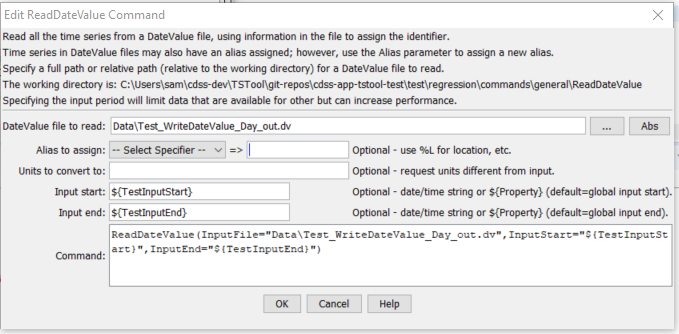
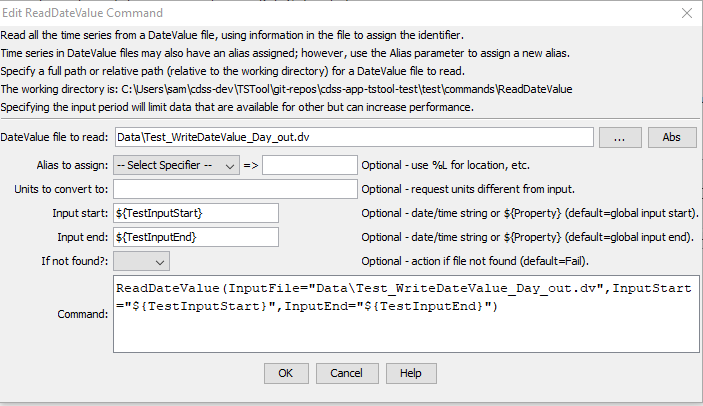
Update documentation for SWSI command enhancements, issue #99

diff --git a/mkdocs-project/docs/getting-started/getting-started.md b/mkdocs-project/docs/getting-started/getting-started.md
@@ -6,31 +6,31 @@ This chapter provides an overview of the TSTool graphical user interface (GUI).
 * [Starting TSTool](#starting-tstool)
 * [Database Selection and User Authentication](#database-selection-and-user-authentication)
 * [Main Interface](#main-interface)
-	+ [Input/Query Options and Time Series List Area](#inputquery-options-and-time-series-list-area)
-	+ [Command List and Command Error Indicators](#command-list-and-command-error-indicators)
-	+ [Time Series Results](#time-series-results)
+    + [Input/Query Options and Time Series List Area](#inputquery-options-and-time-series-list-area)
+    + [Command List and Command Error Indicators](#command-list-and-command-error-indicators)
+    + [Time Series Results](#time-series-results)
 * [File Menu - Main Input and Output Control](#file-menu-main-input-and-output-control)
-	+ [File / New - Open Command File or Databases](#filenew–open-command-file-or-databases)
-	+ [File / Open - Open Command File or Databases](#fileopen-open-command-file-or-databases)
-	+ [File / Save - Save Command File, and Time Series](#filesave–save-command-file-and-time-series)
-	+ [Print Commands](#print-commands)
-	+ [Properties for Commands Run, TSTool Session, and Input Types](#properties-for-commands-run-tstool-session-and-input-types)
-	+ [Set Working Directory](#set-working-directory)
-	+ [File / Exit](#fileexit)
+    + [File / New - Open Command File or Databases](#filenew–open-command-file-or-databases)
+    + [File / Open - Open Command File or Databases](#fileopen-open-command-file-or-databases)
+    + [File / Save - Save Command File, and Time Series](#filesave–save-command-file-and-time-series)
+    + [Print Commands](#print-commands)
+    + [Properties for Commands Run, TSTool Session, and Input Types](#properties-for-commands-run-tstool-session-and-input-types)
+    + [Set Working Directory](#set-working-directory)
+    + [File / Exit](#fileexit)
 * [Edit Menu - Editing Commands](#edit-menu-editing-commands)
-	+ [Cut/Copy/Paste/Delete](#cutcopypastedelete)
-	+ [Select All Commands/Deselect All Commands](#select-all-commandsdeselect-all-commands)
-	+ [Edit Command](#edit-command)
-	+ [Convert Selected Commands To/From Comments](#convert-selected-commands-tofrom-comments)
-	+ [Convert TSID to Read Commands](#convert-tsid-to-read-commands)
+    + [Cut/Copy/Paste/Delete](#cutcopypastedelete)
+    + [Select All Commands/Deselect All Commands](#select-all-commandsdeselect-all-commands)
+    + [Edit Command](#edit-command)
+    + [Convert Selected Commands To/From Comments](#convert-selected-commands-tofrom-comments)
+    + [Convert TSID to Read Commands](#convert-tsid-to-read-commands)
 * [View Menu –-Display Useful Information and Map Interface](#view-menu-display-useful-information-and-map-interface)
 * [Commands Menus](#commands-menus)
 * [Run Menu - Run Commands](#run-Menu-run-commands)
-	* [Process TSProduct](#process-tsproduct)
+    * [Process TSProduct](#process-tsproduct)
 * [Results Menu - Display Time Series](#results-menu-display-time-series)
 * [Tools Menu](#tools-menu)
-	+ [Options](#options)
-	+ [Diagnostics](#diagnostics)
+    + [Options](#options)
+    + [Diagnostics](#diagnostics)
 * [Help Menu](#help-menu)
 * [Creating Workflows](#creating-workflows)
 
@@ -41,18 +41,18 @@ This chapter provides an overview of the TSTool graphical user interface (GUI).
 The TSTool GUI has three main functions:
 
 1. Browse and view time series data.  In this capacity,
-a graph or summary can be created and then TSTool can be closed.
+   a graph or summary can be created and then TSTool can be closed.
 2. Automate time series processing.
-For example, format lists of time series for use with simulation models or other software.
-In this capacity, time series that are read and displayed can be incorporated into a command file,
-which can be run to generate time series files.
+   For example, format lists of time series for use with simulation models or other software.
+   In this capacity, time series that are read and displayed can be incorporated into a command file,
+   which can be run to generate time series files.
 3. Process time series products.  For example, create graphs for use on web sites or to facilitate review data or modeling results.
-In this capacity TSTool is used to generate data products in a streamlined fashion.
-The remainder of this chapter provides an overview of the graphical user interface,
-in the general order of the main features and menus on the menu bar (left to right, top to bottom).
-The features necessary to accomplish the above tasks are described at an introductory level.
-See other chapters for more detailed information.
-See also the training materials that are available for TSTool.
+   In this capacity TSTool is used to generate data products in a streamlined fashion.
+   The remainder of this chapter provides an overview of the graphical user interface,
+   in the general order of the main features and menus on the menu bar (left to right, top to bottom).
+   The features necessary to accomplish the above tasks are described at an introductory level.
+   See other chapters for more detailed information.
+   See also the training materials that are available for TSTool.
 
 ## Starting TSTool ##
 
@@ -153,56 +153,56 @@ read commands from the ***Commands*** menu (see the [Commands chapter](../comman
 To select time series, perform the following steps:
 
 1. **Select the source of the data**.  Select a ***Datastore*** or ***Input type***.
-	* A data store is a repository that generally contains multiple time series
-	(e.g., a database, web service, or file).
-	The details about the datastore are included in a simple configuration file (see datastore appendices).
-	* Input types define the storage format (e.g., database or file)
-	for time series data, and may require an input name.
-	Selecting some input types may prompt for a file,
-	which is then listed in the ***Input name*** choices immediately below ***Input type***.<br><br>
-	The datastore design is being phased in because it provides more flexibility in defining data connections.
-	In the future, all database connections will be transferred to
-	datastores and remaining input types may be referred to as “file datastores”, which will use a filename.<br><br>
-	The DateValue input type is the default.
-	More specific input types (e.g., HydroBase) may be the default if enabled.
-	See the appropriate data store or input type appendix for more information.<br><br>
-	Depending on the input type, some of the remaining selection choices described below may be disabled or limited.  
+    * A data store is a repository that generally contains multiple time series
+      (e.g., a database, web service, or file).
+      The details about the datastore are included in a simple configuration file (see datastore appendices).
+    * Input types define the storage format (e.g., database or file)
+      for time series data, and may require an input name.
+      Selecting some input types may prompt for a file,
+      which is then listed in the ***Input name*** choices immediately below ***Input type***.<br><br>
+      The datastore design is being phased in because it provides more flexibility in defining data connections.
+      In the future, all database connections will be transferred to
+      datastores and remaining input types may be referred to as “file datastores”, which will use a filename.<br><br>
+      The DateValue input type is the default.
+      More specific input types (e.g., HydroBase) may be the default if enabled.
+      See the appropriate data store or input type appendix for more information.<br><br>
+      Depending on the input type, some of the remaining selection choices described below may be disabled or limited.  
 2. **Select the time series data type**.  Select the ***Data type*** (if appropriate for the input type).
-For example, select ***Streamflow*** or ***Diversion*** if using a HydroBase input type.
-For some input types, the data type will be listed as ***Auto***,
-indicating that the data type automatically will be determined from the data.
+   For example, select ***Streamflow*** or ***Diversion*** if using a HydroBase input type.
+   For some input types, the data type will be listed as ***Auto***,
+   indicating that the data type automatically will be determined from the data.
 3. **Select the time series time step (interval)**.
-Select the ***Time step*** (if appropriate for the input type).
-The time step, also referred to as the data interval,
-generally will be limited by the input type.
-For example, if reading from the HydroBase database,
-the ***Streamflow*** data type will result in Day, Month, and Irregular (real-time) time steps being listed.
-The time step will be shown as Auto for input types where the time step is determined as data are read.
+   Select the ***Time step*** (if appropriate for the input type).
+   The time step, also referred to as the data interval,
+   generally will be limited by the input type.
+   For example, if reading from the HydroBase database,
+   the ***Streamflow*** data type will result in Day, Month, and Irregular (real-time) time steps being listed.
+   The time step will be shown as Auto for input types where the time step is determined as data are read.
 4. **Specify filter criteria for the time series list**.
-Specify the ***Where*** and ***Is*** clause(s) for the query (if appropriate for the input type).
-This information will limit the number of time series that are returned.
-The filters are highly dependent on the original data.
+   Specify the ***Where*** and ***Is*** clause(s) for the query (if appropriate for the input type).
+   This information will limit the number of time series that are returned.
+   The filters are highly dependent on the original data.
 5. **Generate the time series list**.  Press the ***Get Time Series List*** button
-in the ***Input/Query Options*** area, and TSTool will display a list of matching time series in the ***Time Series List***.
-If the input type is a file, you may first be prompted to select the file containing the time series.
-The ***Time Series List*** shows a list of matching time series,
-typically including location and time series properties.
-As much as possible, the column headings are consistent between different input types.
-The results are typically sorted by name or identifier if from a database,
-or if read from a file are listed according to the order in the file.
-Right-click on the column headings and select ***Sort Ascending*** to sort by that column.
-The sorts are alphabetical so some numeric fields may not sort as expected due to spaces, etc.
+   in the ***Input/Query Options*** area, and TSTool will display a list of matching time series in the ***Time Series List***.
+   If the input type is a file, you may first be prompted to select the file containing the time series.
+   The ***Time Series List*** shows a list of matching time series,
+   typically including location and time series properties.
+   As much as possible, the column headings are consistent between different input types.
+   The results are typically sorted by name or identifier if from a database,
+   or if read from a file are listed according to the order in the file.
+   Right-click on the column headings and select ***Sort Ascending*** to sort by that column.
+   The sorts are alphabetical so some numeric fields may not sort as expected due to spaces, etc.
 6. **Copy time series identifiers to the command list**.
-TSTool requires that time series identifiers (TSIDs) be created in the ***Commands***
-list area in order to read the time series data values.
-To create TSIDs from the ***Time Series List***,
-selecting one or more rows in the ***Time Series List*** (note that the first column will not allow selections)
-and then press the ***Copy Selected to Commands*** button.
-Or, if appropriate, press the ***Copy All to Commands*** button.
+   TSTool requires that time series identifiers (TSIDs) be created in the ***Commands***
+   list area in order to read the time series data values.
+   To create TSIDs from the ***Time Series List***,
+   selecting one or more rows in the ***Time Series List*** (note that the first column will not allow selections)
+   and then press the ***Copy Selected to Commands*** button.
+   Or, if appropriate, press the ***Copy All to Commands*** button.
 7. **Read and display time series**.  The ***Commands*** and ***Results*** areas are discussed below.
-To process time series having different data types or time steps,
-make multiple queries using the ***Input/Query Options*** and ***Time Series List***
-areas and select from the lists as necessary, accumulating time series identifiers in the ***Commands*** list.
+   To process time series having different data types or time steps,
+   make multiple queries using the ***Input/Query Options*** and ***Time Series List***
+   areas and select from the lists as necessary, accumulating time series identifiers in the ***Commands*** list.
 
 After selecting time series and copying to the ***Commands*** area,
 the main interface will appear similar to the following figure.
@@ -284,17 +284,17 @@ The following error handling features are available:
 
 * The graphic in the left gutter indicates the severity of a problem (see below for full explanation).
 * The colored indicator on the right indicates the severity of a
-problem by its color and, when clicked on, positions the visible list of
-commands to display the command corresponding to the problem.
+  problem by its color and, when clicked on, positions the visible list of
+  commands to display the command corresponding to the problem.
 * Commands have three phases:  1) initialization, 2) discovery, 3) run.
-Initialization occurs when reading a command file or adding a new command.
-The discovery phase is executed only for commands that generate time series
-for other commands and provides other commands with identifiers used in command editing.
-The run phase generates full output.
+  Initialization occurs when reading a command file or adding a new command.
+  The discovery phase is executed only for commands that generate time series
+  for other commands and provides other commands with identifiers used in command editing.
+  The run phase generates full output.
 * Positioning the mouse over a graphic in the left or right gutter
-will show a popup message with the problem information.
-The popup is only visible for a few seconds so use the right-click popup menu
-***Show Command Status (Success/Warning/Failure)*** for a dialog that does not automatically disappear.
+  will show a popup message with the problem information.
+  The popup is only visible for a few seconds so use the right-click popup menu
+  ***Show Command Status (Success/Warning/Failure)*** for a dialog that does not automatically disappear.
 * Clicking on the left gutter will hide and un-hide the gutter.
 
 The meaning of the error handling symbols is described in the following table.
@@ -340,10 +340,12 @@ Only the selected time series will be output (or all if none are selected).
 The following results may be available, depending on commands that were run:
 
 * ***Ensembles*** – groups of time series with an ensemble identifier.
-Individual time series that are associated with an ensemble also
-are shown in the ***Time Series*** tab.  Right-click on item to access viewing and analysis options.
+  Individual time series that are associated with an ensemble also
+  are shown in the ***Time Series*** tab.  Right-click on item to access viewing and analysis options.
+* ***Networks*** - a list of networks that have been created, for example to represent river or other flow networks
 * ***Output Files*** – files that are created during processing.  Single-click on a file to view.
 * ***Problems*** – a full listing of warning and failure messages from all commands.
+* ***Properties*** – the list of processor properties that can be referenced in command parameters using `${Property}` syntax
 * ***Tables*** – column-oriented tables created during processing.  Right-click on a table in the list to view the table.
 * ***Time Series*** – time series created during processing.  Right-click on one or more time series to view the time series.
 * ***Views*** – alternate views of time series, other than the list of time series that is ordered based on command output.
@@ -585,7 +587,7 @@ with the current setting being defined by the most recent selection:
 2. The directory where a command file was opened,
 3. The directory where a command file was saved,
 4. The directory specified by a [`SetWorkingDir`](../command-ref/SetWorkingDir/SetWorkingDir.md)
-command (use of this command is discouraged because it hard-codes a system-specific folder in command files),
+   command (use of this command is discouraged because it hard-codes a system-specific folder in command files),
 5. The directory specified by ***File / Set Working Directory***.
 
 The menu item is provided to allow the working directory to be set before a command file has been saved (or opened).
@@ -959,7 +961,7 @@ This section summarizes basic workflow concepts.
 
 * [Conceptualize a Workflow](#conceptualize-a-workflow)
 * [Create a Command File](#create-a-command-file)
-	+ [Best Practices for Command Files](#best-practices-for-command-files)
+    + [Best Practices for Command Files](#best-practices-for-command-files)
 * [Run the Command File using TSTool](#run-the-command-file-using-tstool)
 
 ### Conceptualize a Workflow ###
@@ -986,11 +988,11 @@ For example, the following commands are suitable to perform the above conceptual
 1. [`ReadTableFromExcel`](../command-ref/ReadTableFromExcel/ReadTableFromExcel.md) - to read the list of stations (or use other table commands)
 2. [`For`](../command-ref/For/For.md) - to loop over the stations in the table
 3. [`ReadHydroBase`](../command-ref/ReadHydroBase/ReadHydroBase.md) - to read time series from State of Colorado's HydroBase database
-(or use similar commands to read time series)
+   (or use similar commands to read time series)
 4. [`RunningStatisticTimeSeries`](../command-ref/RunningStatisticTimeSeries/RunningStatisticTimeSeries.md)
-or other statistics commands (see [Statistic Examples](../examples/examples.md#statistic-examples))
+   or other statistics commands (see [Statistic Examples](../examples/examples.md#statistic-examples))
 5. [`WriteTableToExcel`](../command-ref/WriteTableToExcel/WriteTableToExcel.md) - to output tabular Excel results
-and [`ProcessTSProduct`](../command-ref/ProcessTSProduct/ProcessTSProduct.md) to process graphs
+   and [`ProcessTSProduct`](../command-ref/ProcessTSProduct/ProcessTSProduct.md) to process graphs
 
 The command file is typically created using the TSTool graphical user interface
 but command files can also be created with a text editor or other software.
@@ -1001,26 +1003,26 @@ Best practices for command files are:
 
 1. Document command files with sufficient comments.
 2. Consider using version control such as GitHub to track changes to command files
-and other controlling information.
-For example, model input files can be maintained in version control.
-See the [TSTool test repository](https://github.com/OpenCDSS/cdss-app-tstool-test) for examples.
+   and other controlling information.
+   For example, model input files can be maintained in version control.
+   See the [TSTool test repository](https://github.com/OpenCDSS/cdss-app-tstool-test) for examples.
 3. Organize data files logically, for example, put data into a `data` folder.
 4. Organize process files logically, for example, if multiple command files are used,
-consider creating multiple folders, with numbers to cause the folders to sort in sequential order.
+   consider creating multiple folders, with numbers to cause the folders to sort in sequential order.
 5. Use relative paths for file references in commands, for example `data/somefile` and `../data/somefile`.
-The TSTool working directory (working folder) will be set to the command file folder
-when the command file is read or saved.
-All other file locations should be specified relative to that folder.
-This allows the files to be shared with others without having to change file paths.
-TSTool automatically defaults to relative paths for file and folder command parameters
-and handles Windows (`\`) and Linux (`/`) folder separators.
+   The TSTool working directory (working folder) will be set to the command file folder
+   when the command file is read or saved.
+   All other file locations should be specified relative to that folder.
+   This allows the files to be shared with others without having to change file paths.
+   TSTool automatically defaults to relative paths for file and folder command parameters
+   and handles Windows (`\`) and Linux (`/`) folder separators.
 6. Name TSTool command files with `.tstool` file extension (previously `.TSTool` was the default extension).
 7. Consider using the [`StartLog`](../command-ref/StartLog/StartLog.md) command as the first command in the
-command file to facilitate troubleshooting.
-The log file name can be the same as the command file with `.log` appended.
-This creates a local log file that is managed with command file and related files.
-The command can be commented out if it significantly slows down processing or creates a large log file.
-Log files should be ignored from version control repositories.
+   command file to facilitate troubleshooting.
+   The log file name can be the same as the command file with `.log` appended.
+   This creates a local log file that is managed with command file and related files.
+   The command can be commented out if it significantly slows down processing or creates a large log file.
+   Log files should be ignored from version control repositories.
 
 ### Run the Command File Using TSTool ###
 

diff --git a/mkdocs-project/docs/command-ref/RunCommands/RunCommands.md b/mkdocs-project/docs/command-ref/RunCommands/RunCommands.md
@@ -16,23 +16,23 @@ This command can be used to manage workflow where multiple commands files are ru
 and is also used extensively for testing, where a test suite consists of running separate test case command files.
 
 * Command files that are run can themselves include `RunCommands` commands.
-Each command file that is run has knowledge if its initial working directory and
-relative paths referenced in the command file are relative to this directory.
-This allows a master command file to reside in a different location than the individual command files that are being run.
-The current working directory is reset to that of the command file being run.
+  Each command file that is run has knowledge if its initial working directory and
+  relative paths referenced in the command file are relative to this directory.
+  This allows a master command file to reside in a different location than the individual command files that are being run.
+  The current working directory is reset to that of the command file being run.
 * Datastores from the parent command processor are by default passed to the child command processor,
-which allows database connections can be opened once and shared.
-(Database Datastores are a feature that will be enabled in the future.)
+  which allows database connections can be opened once and shared.
+  (Database Datastores are a feature that will be enabled in the future.)
 * Currently the properties from the parent command file are NOT applied to the
-initial conditions when running the command file.
-Therefore, global properties like input and output period are reset to defaults before running the command file.
-A future enhancement may implement a command parameter to indicate whether to share the properties with the parent processor.
-The output from the command is also not added to the parent processor.
-Again, a future enhancement may be to append output so that one final set of output is generated.
+  initial conditions when running the command file.
+  Therefore, global properties like input and output period are reset to defaults before running the command file.
+  A future enhancement may implement a command parameter to indicate whether to share the properties with the parent processor.
+  The output from the command is also not added to the parent processor.
+  Again, a future enhancement may be to append output so that one final set of output is generated.
 * There is currently no special handling of log files; consequently,
-if the main command file opens a log file and then a command file is run that opens a new log file,
-the main log file will be closed.
-More options to hand off logging from one file to another may be implemented in the future.
+  if the main command file opens a log file and then a command file is run that opens a new log file,
+  the main log file will be closed.
+  More options to hand off logging from one file to another may be implemented in the future.
 
 ## Command Editor ##
 
@@ -61,7 +61,10 @@ Command Parameters
 | --------------|-----------------|----------------- |
 | `CommandFile`<br>**required** | The command file to run. A path relative to the master command file can be specified.  Can use `${Property}`. | None - must be specified. |
 | `ExpectedStatus` | Used for testing – indicates the expected status from the command, one of: <ul><li>`Unknown`</li><li>`Success`</li><li>`Warning`</li><li>`Failure`</li></ul><br> If this parameter is NOT used, the command log messages from commands that are run will be appended to the `RunCommands` command log.  However, using this parameter will not append those messages – this is used in automated testing to allow a successful test even when there are warning and failure messages. | `Success` |
-| `ShareDatastores` | Indicate whether data stores in the parent should be shared with the child command processor.  Normally this should be done so that databases can be opened once.  Note that opening data stores in the child command file will not make the data stores available in the parent. | `Share` |
+| `ShareDatastores` | Indicate whether datastores in the parent should be shared with the child command processor.  Normally this should be done so that databases can be opened once.  Note that opening datastores in the child command file will not make the datastores available in the parent. | `Share` |
+| `AppendOutputFiles` | Indicate whether output files generated by the command file that is run should be listed in the main TSTool ***Results / Output Files*** (`True`) or not (`False`).  The default is `False` because a large number of output files may be generated. | `False` |
+| `WarningCountProperty` | Specify the name of a property (without surrounding `${  }`) that should be set to the number of warning messages generated when running the command file. |  |
+| `FailureCountProperty` | Specify the name of a property (without surrounding `${  }`) that should be set to the number of failure messages generated when running the command file. |  |
 
 ## Examples ##
 

diff --git a/mkdocs-project/docs/appendix-release-notes/release-notes-14.md b/mkdocs-project/docs/appendix-release-notes/release-notes-14.md
@@ -42,8 +42,20 @@ Additional resources are needed to update the software to use 64-bit libraries f
   The `DoubleColumns` command parameter allow such values to be read as numbers, and precision is used for displays after reading.
 * ![bug](bug.png) [14.3.0] Fix the
   [`WebGet`](../command-ref/WebGet/WebGet.md) command handle URL with query values that have equal sign in the parameter value.
+* ![bug](bug.png) [14.3.0] Fix the
+  [`WriteTableToGeoJSON`](../command-ref/WriteTableToGeoJSON/WriteTableToGeoJSON.md) command editor so that the `Append` parameter
+  field does not overwrite other fields.
+* ![change](change.png) [14.3.0] The processor property `RunTimeMs` has been added to show the number of milliseconds
+  to run the last command file.  This is useful for performance evaluation.
 * ![change](change.png) [14.3.0] Update the
-  [`RunCommands`](../command-ref/RunCommands/RunCommands.md) command to handle `@enabledif` annotations.
+  [`ReadDateValue`](../command-ref/ReadDateValue/ReadDateValue.md) command:
+    + Add the `IfNotFound` parameter to ignore reading if the file does not exist,
+      which is useful for reading files during troubleshooting.
+* ![change](change.png) [14.3.0] Update the
+  [`RunCommands`](../command-ref/RunCommands/RunCommands.md) command:
+    + Handle `@enabledif` annotations.
+    + Add the `AppendOutputFiles` parameter to append the command's output files to the main output file list.
+    + Add the `WarningCountProperty` and `FailureCountProperty` parameters to allow handling errors in the command file that is run.
 * ![change](change.png) [14.3.0] Update the
   [`TableMath`](../command-ref/TableMath/TableMath.md) command to have `Max` and `Min` operators.
 * ![change](change.png) [14.3.0] Update the

diff --git a/mkdocs-project/docs/command-ref/ReadDateValue/ReadDateValue.md b/mkdocs-project/docs/command-ref/ReadDateValue/ReadDateValue.md
@@ -55,7 +55,7 @@ Command Parameters
 |`NewUnits`|Units to convert data to (must be in the `system/DATAUNIT` configuration file under the TSTool installation folder).|Use the data units from the file.|
 |`InputStart`|Starting date/time to read data, in precision consistent with data.  Specify as a date/time string or a processor `${Property}`.|Read all data.|
 |`InputEnd`|Ending date/time to read data, in precision consistent with data.  Specify as a date/time string or a processor `${Property}`.|Read all data.|
-
+|`IfNotFound`| Indicate an action if the input file is not found:<ul><li>`Ignore` - ignore the missing file and do not warn</li><li>`Warn` - generate a warning message</li><li>`Fail` - generate a failure message</li></ul> | `Fail` |
 
 ## Examples ##
 
